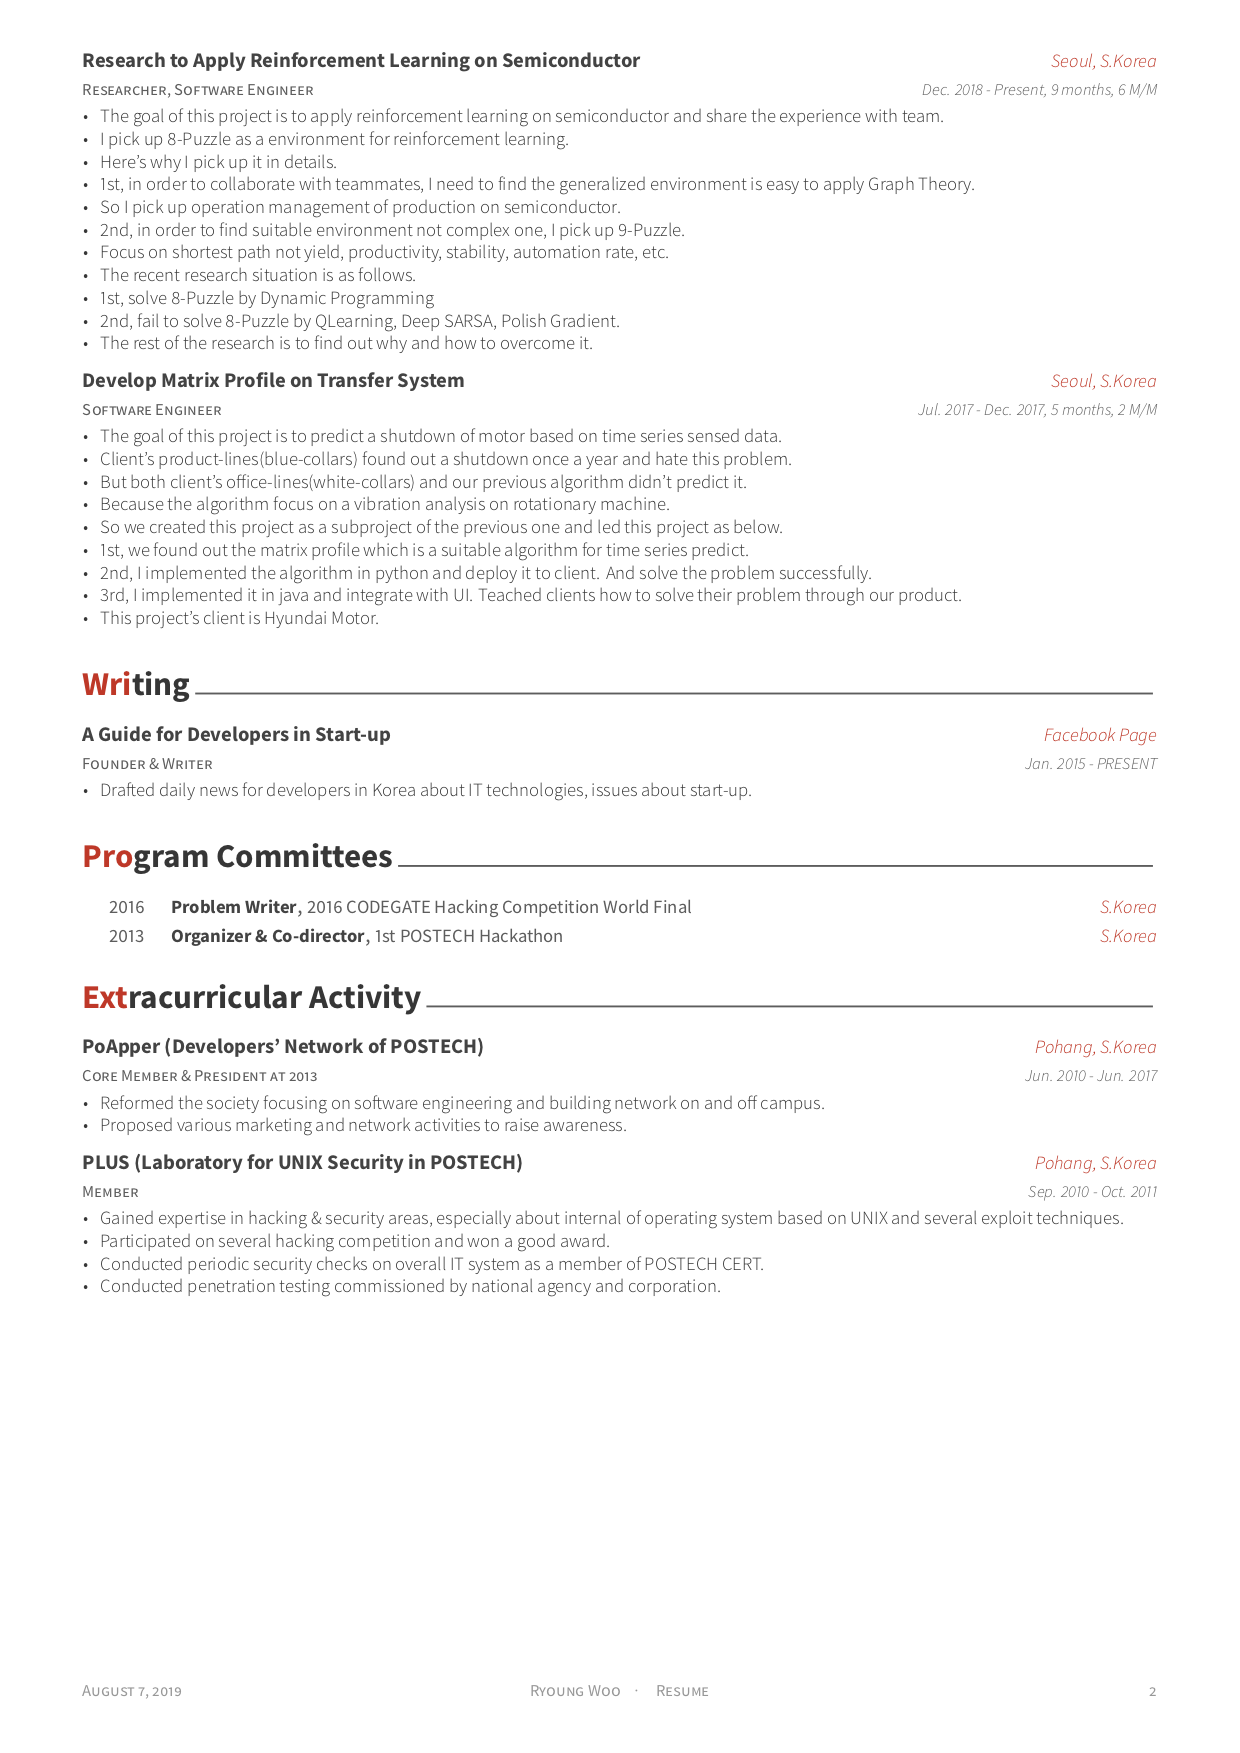
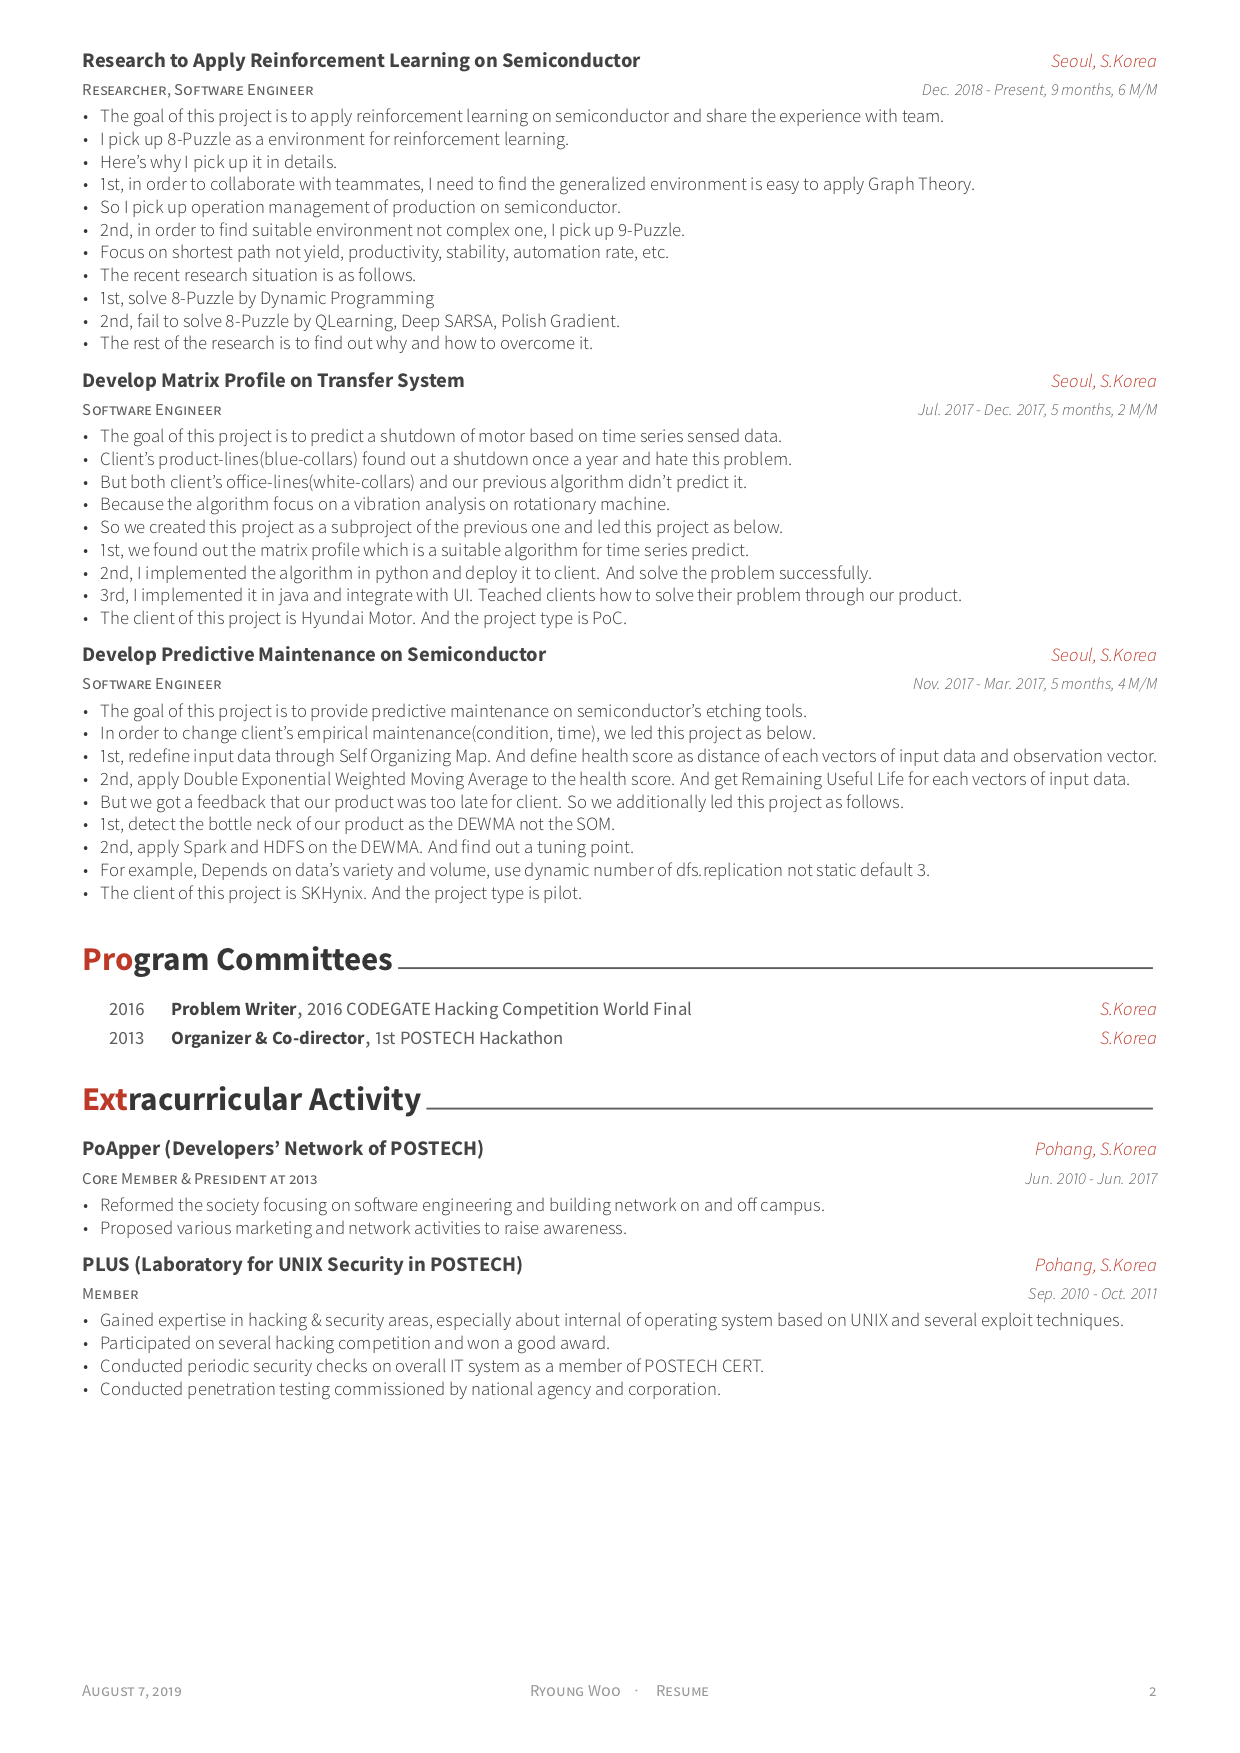
#15-modify-project-6 ``` modified:   examples/resume-0.png modified:   examples/resume-1.png modified:   examples/resume.pdf modified:   examples/resume.tex modified:   examples/resume/project.tex ```

Changed region(s): [[0.0613, 0.3388, 0.9194, 0.8009], [0.8274, 0.6469, 0.9194, 0.7393], [0.8581, 0.4929, 0.9194, 0.6161]]

diff --git a/examples/resume/project.tex b/examples/resume/project.tex
@@ -29,6 +29,7 @@
         \item {2nd, I had redeveloped the algorithms by non Hadoop based technologies.(GreenPlumDataBase PL/Java, Oracle-R)}
         \item {3rd, I had redeveloped the algorithms by Hadoop based technologies.(Hadoop, BDA, Hawq, HBase, Spark, Eco system)}
         \item {In this project, we have a lot of semiconductor clients.(Korea: Samsung Electronics, SKHynix, SKSiltron, Japan: Toshiba, Sharp, Taiwan: TSMC, China: BOE)}
+        \item {And the project types are PoC, pilot, production.}
       \end{cvitems}
     }
 %-------------------------------------------------------------------
@@ -72,8 +73,30 @@
         \item {1st, we found out the matrix profile which is a suitable algorithm for time series predict.}        
         \item {2nd, I implemented the algorithm in python and deploy it to client. And solve the problem successfully.}
         \item {3rd, I implemented it in java and integrate with UI. Teached clients how to solve their problem through our product.}
-        \item {This project's client is Hyundai Motor.}
+        \item {The client of this project is Hyundai Motor. And the project type is PoC.}
       \end{cvitems}
     }
 %-------------------------------------------------------------------
+
+%-PdM----------------------------------------------------------------
+  \cventry
+    {Software Engineer} % Role
+    {Develop Predictive Maintenance on Semiconductor} % Event
+    {Seoul, S.Korea} % Location
+    {Nov. 2017 - Mar. 2017, 5 months, 4 M/M} % Date(s)
+    {
+      \begin{cvitems} % Description(s)
+        \item {The goal of this project is to provide predictive maintenance on semiconductor's etching tools.}
+        \item {In order to change client's empirical maintenance(condition, time), we led this project as below.}
+        \item {1st, redefine input data through Self Organizing Map. And define health score as distance of each vectors of input data and observation vector.}        
+        \item {2nd, apply Double Exponential Weighted Moving Average to the health score. And get Remaining Useful Life for each vectors of input data.}
+        \item {But we got a feedback that our product was too late for client. So we additionally led this project as follows.}
+        \item {1st, detect the bottle neck of our product as the DEWMA not the SOM.}        
+        \item {2nd, apply Spark and HDFS on the DEWMA. And find out a tuning point.}
+        \item {For example, Depends on data's variety and volume, use dynamic number of dfs.replication not static default 3.}
+        \item {The client of this project is SKHynix. And the project type is pilot.}
+      \end{cvitems}
+    }
+%-------------------------------------------------------------------
+
 \end{cventries}

diff --git a/examples/resume.tex b/examples/resume.tex
@@ -101,7 +101,7 @@
 \input{resume/education.tex}
 \input{resume/project.tex}
 % \input{resume/honors.tex}
-\input{resume/writing.tex}
+% \input{resume/writing.tex}
 \input{resume/committees.tex}
 \input{resume/extracurricular.tex}
 
